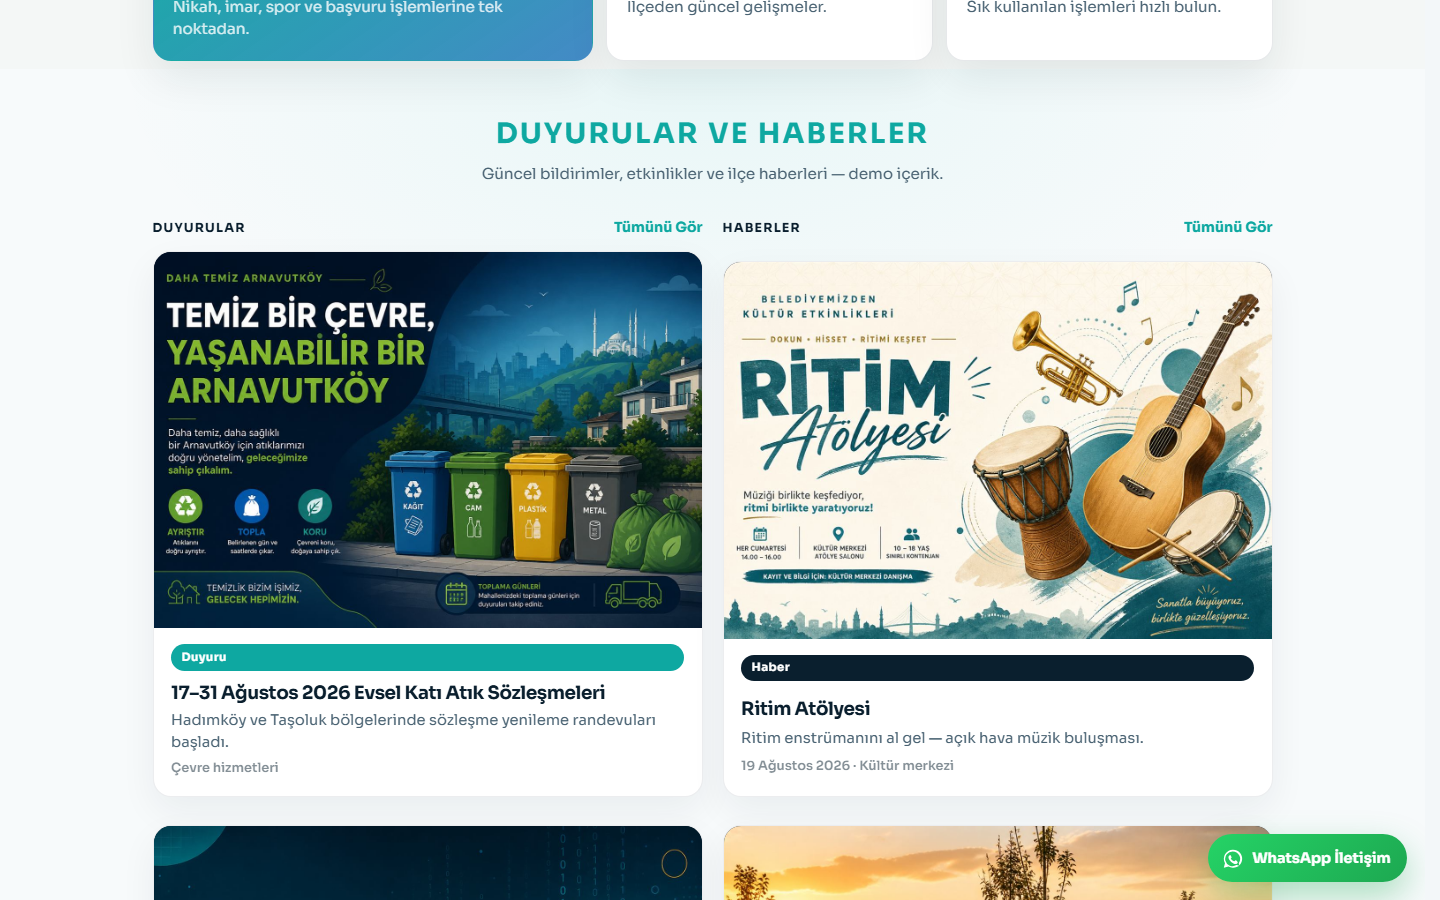
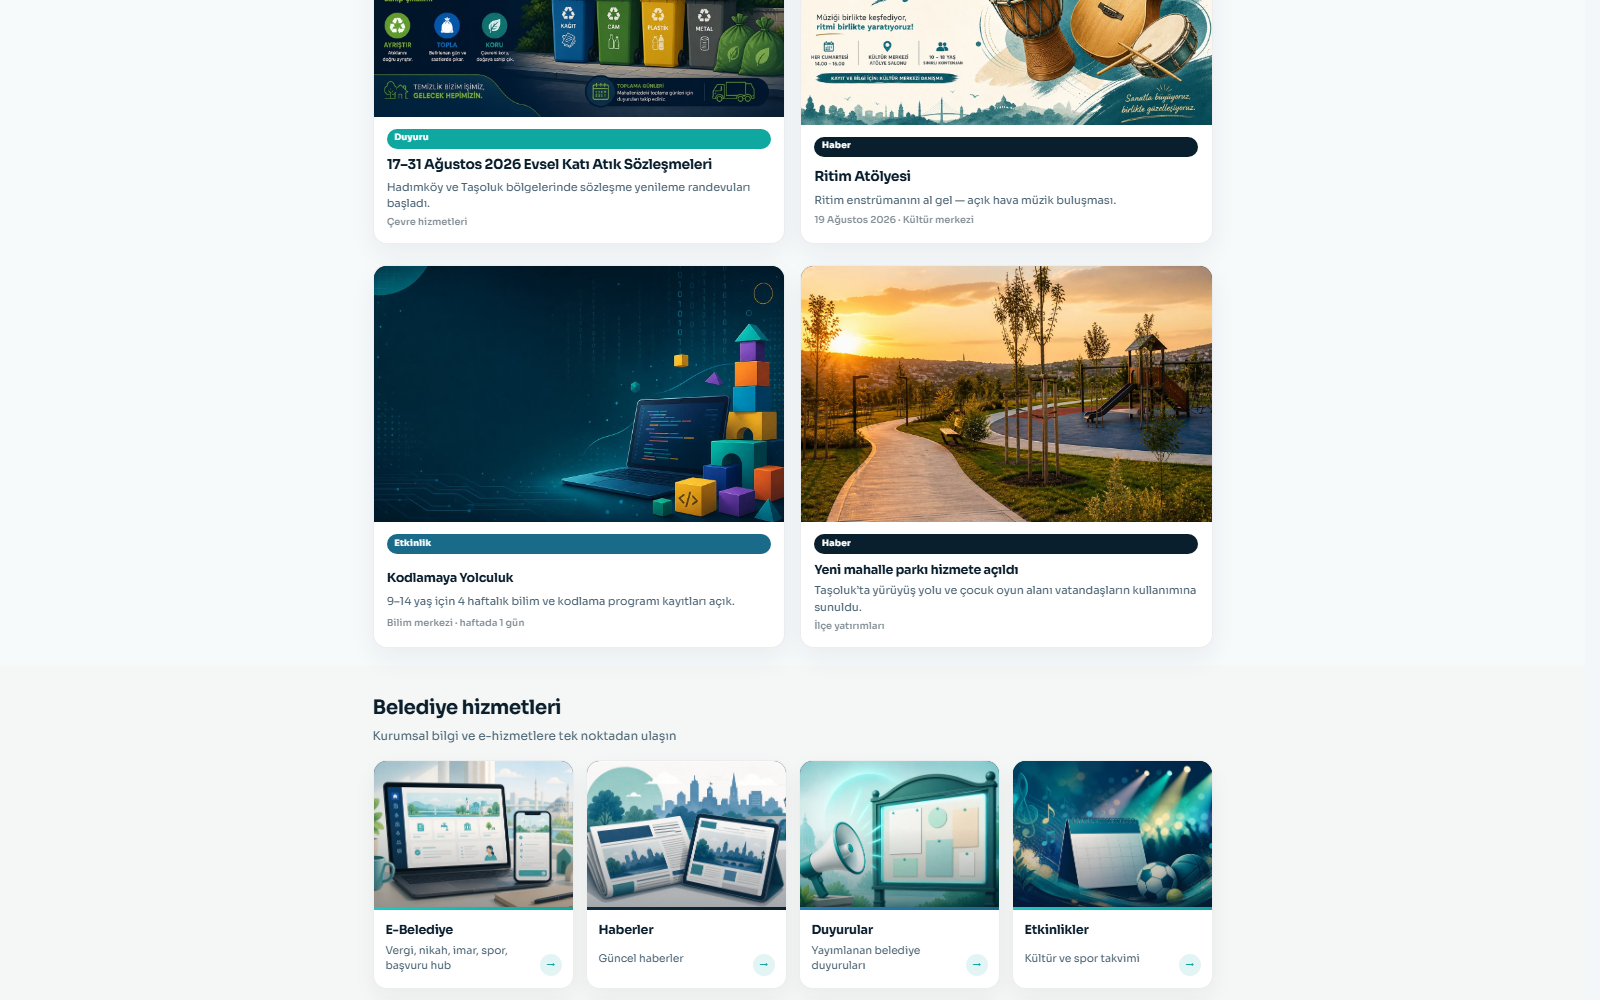
Widen README screenshots at 75% zoom and include transport card.
Capture more of each page in frame and document the ulasim karti and home services surfaces for a clearer GitHub showcase.

diff --git a/README.md b/README.md
@@ -8,7 +8,7 @@
 </p>
 
 <p align="center">
-  <sub>Modern teal/navy belediye portalı — tam ekran hero, hızlı erişim dock, resimli içerik ve e-Belediye</sub>
+  <sub>Modern teal/navy belediye portalı — tam ekran hero, hızlı erişim dock, resimli içerik, e-Belediye ve ulaşım kartı</sub>
 </p>
 
 ## Neden bu proje?
@@ -39,9 +39,13 @@ resimli duyuru-haber kartları ve tutarlı `PublicPage` içerik şablonu.
 | :---: | :---: |
 | <img src="docs/screenshots/borclar.png" alt="Borç listesi ve ödeme" width="420" /> | <img src="docs/screenshots/hizmet-masasi.png" alt="Hizmet masası talepleri" width="420" /> |
 
-| Muhtarlıklar | Ulaşım ağı |
+| Muhtarlıklar | Ulaşım kartı |
 | :---: | :---: |
-| <img src="docs/screenshots/muhtarliklar.png" alt="Mahalle / muhtar dizini" width="420" /> | <img src="docs/screenshots/ulasim-agi.png" alt="Ulaşım ağı hub" width="420" /> |
+| <img src="docs/screenshots/muhtarliklar.png" alt="Mahalle / muhtar dizini" width="420" /> | <img src="docs/screenshots/ulasim-kart.png" alt="Ulaşım kartı bakiye ve biniş" width="420" /> |
+
+| Ulaşım ağı | Belediye hizmetleri |
+| :---: | :---: |
+| <img src="docs/screenshots/ulasim-agi.png" alt="Ulaşım ağı hub" width="420" /> | <img src="docs/screenshots/home-services.png" alt="Ana sayfa hizmet kartları" width="420" /> |
 
 ## Öne çıkanlar
 
